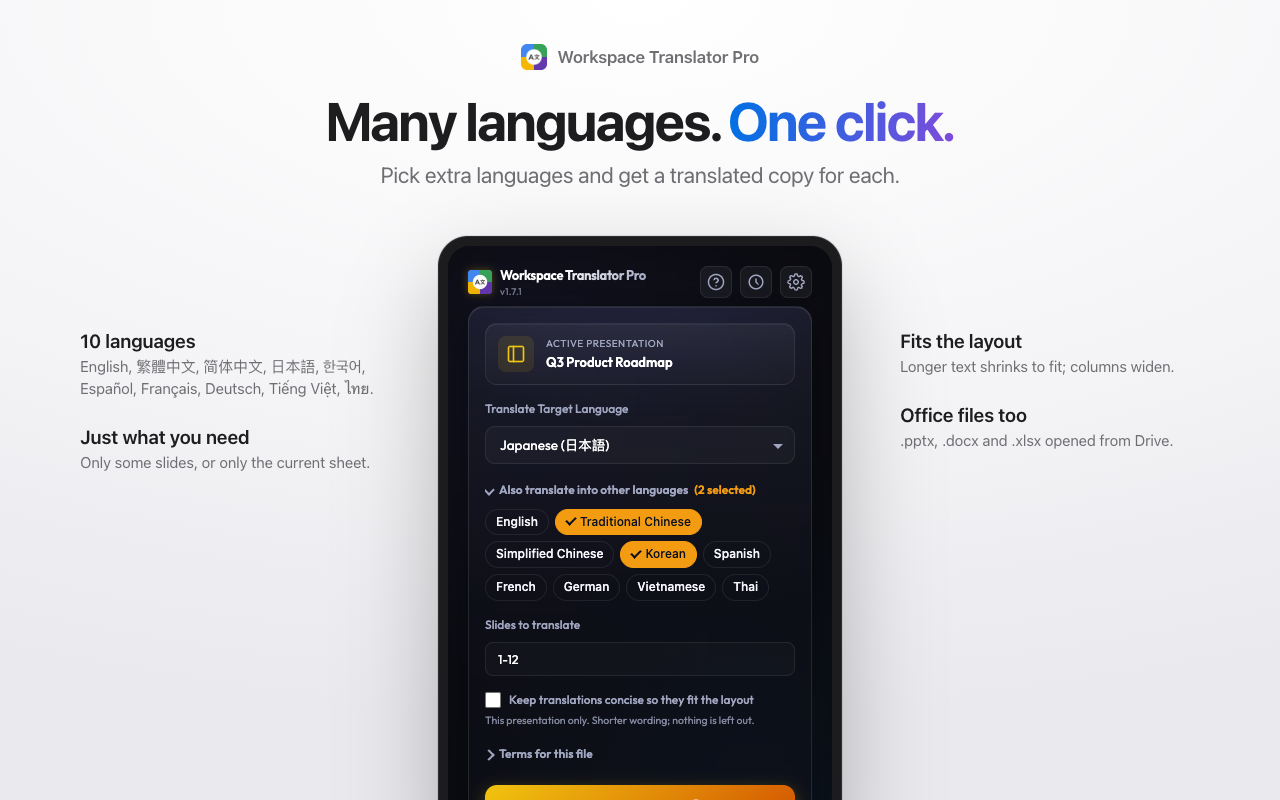
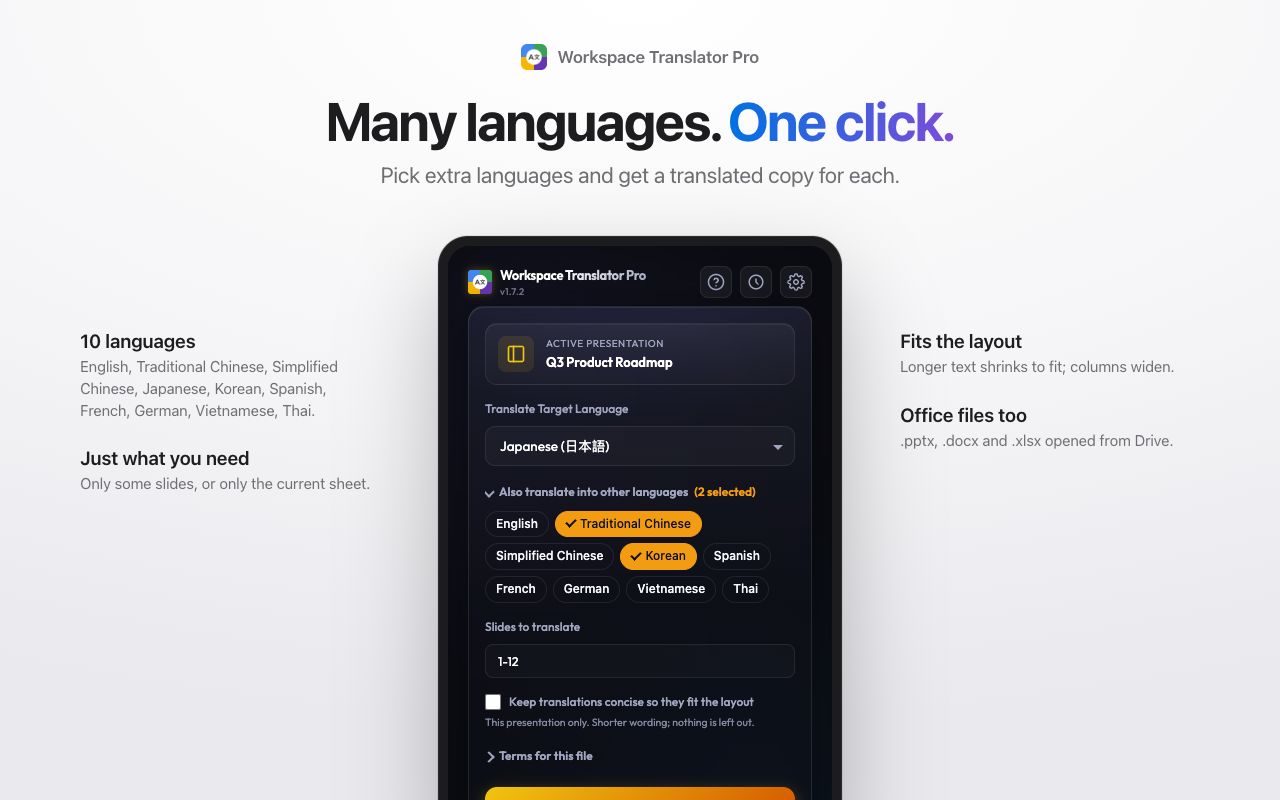
Store images: language names in the viewer's language

diff --git a/store-assets/compose.html b/store-assets/compose.html
@@ -208,7 +208,7 @@ const shots = {
         'Slides, Docs, Sheets and Forms — longer text auto-fits, your original untouched.')}
       <div class="doc left"><div class="bar"></div><div class="doc-lang">Original · English</div><div class="doc-title">Q3 Product Roadmap</div>
         <div class="doc-body"><div class="row"><span>Launch beta</span><span>Sep 14</span></div><div class="row"><span>Customer pilots</span><span>Oct 1</span></div><div class="row"><span>General availability</span><span>Jan 31</span></div></div></div>
-      <div class="doc right"><div class="bar"></div><div class="doc-lang">Copy · 日本語</div><div class="doc-title">第3四半期 製品ロードマップ</div>
+      <div class="doc right"><div class="bar"></div><div class="doc-lang">Copy · Japanese (日本語)</div><div class="doc-title">第3四半期 製品ロードマップ</div>
         <div class="doc-body"><div class="row"><span>ベータ版の公開</span><span>9月14日</span></div><div class="row"><span>顧客パイロット</span><span>10月1日</span></div><div class="row"><span>一般提供開始</span><span>1月31日</span></div></div>
         <div class="fit-tag">Longer text auto-fitted · 6 text boxes</div></div>
       ${device('prefs&scroll=result', '', 'result')}</div>`,
@@ -224,7 +224,7 @@ const shots = {
       ${device('prefs')}</div>`,
   4: `<div class="shot">${head('Many languages. <span class="grad">One click.</span>',
         'Pick extra languages and get a translated copy for each.')}
-      ${pts('left', [['10 languages', 'English, 繁體中文, 简体中文, 日本語, 한국어, Español, Français, Deutsch, Tiếng Việt, ไทย.'], ['Just what you need', 'Only some slides, or only the current sheet.']])}
+      ${pts('left', [['10 languages', `${langNames('en').join(', ')}.`], ['Just what you need', 'Only some slides, or only the current sheet.']])}
       ${pts('right', [['Fits the layout', 'Longer text shrinks to fit; columns widen.'], ['Office files too', '.pptx, .docx and .xlsx opened from Drive.']])}
       ${device('main')}</div>`,
   5: `<div class="shot">${head('Close the panel. <span class="grad">Keep working.</span>',
@@ -249,7 +249,7 @@ const shots = {
       ${mini('a', SRC).replace('class="ms a"', 'class="ms a" style="top:150px"')}<div class="ms-arrow" style="top:256px; left:1000px">→</div>
       ${L.back.map((t, i) => `<div class="stack" style="left:${1030 + (3 - i) * 16}px; top:${150 - (3 - i) * 26}px; opacity:${0.55 + i * 0.15}"><div class="hd">${t}</div></div>`).join('')}
       ${mini('b', L.slide).replace('class="ms b"', 'class="ms b" style="top:150px"')}
-      <div class="ms-lbl" style="left:690px; top:406px">English</div>
+      <div class="ms-lbl" style="left:690px; top:406px">${langNames(lang)[0]}</div>
       <div class="multi">${L.multi}</div>
       <div class="langrow">${langNames(lang).map((n, i) => `<span class="${NATIVE[i] === L.slide.name ? 'on' : ''}">${n}</span>`).join('')}</div>
       <div class="kept" style="left:1200px; top:30px">✓ ${L.kept}</div></div>`; })(),
